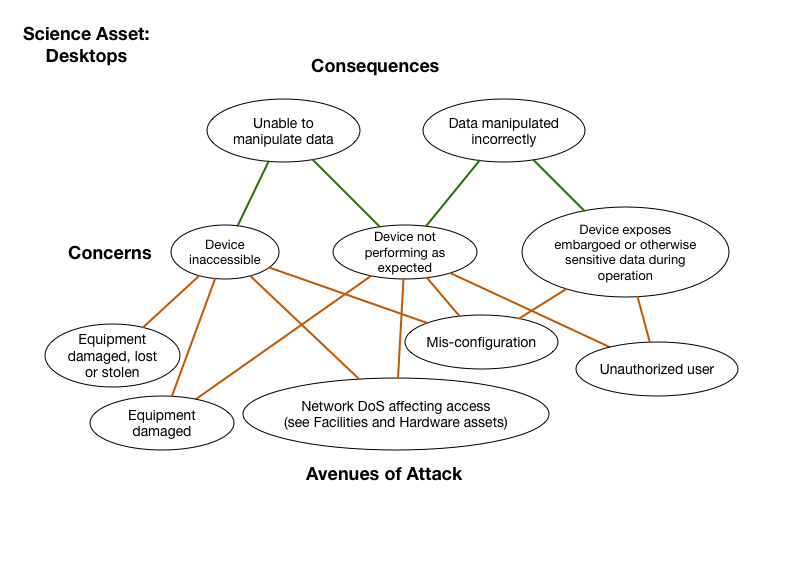
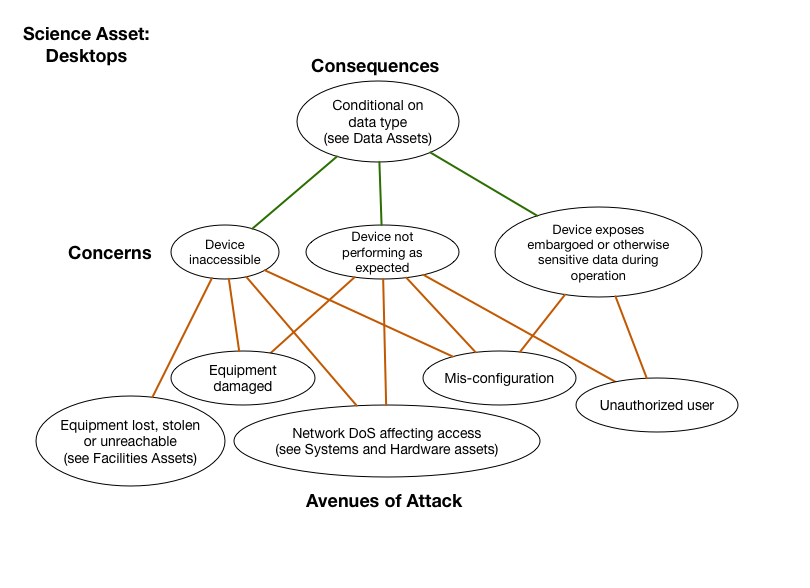
Updated a few more diagrams to show the dependency on Data Assets.  Added Sensors and Staff Institutional Systems (however, as I had trouble with the risk profile, I assume this should not be here).  Fixed one asset highlight to refer (more accurately) to the institutional systems assets (which agai

diff --git a/OSCRP.md b/OSCRP.md
@@ -112,7 +112,7 @@ A vulnerability in the wiki software used by a microelectronics research lab was
 
 
 A physics lab and a materials science lab were affected by intrusions into the computers used to control sensitive lab equipment. The intruders gained access via Windows Remote Desktop, which was used heavily by lab members to remotely access these instruments. The intruders used these computers to hide their true location while engaging in social engineering fraud on dating websites. As part of an effort to avoid discovery, intruders deleted all data, including scientific data files, from one of the instrument controller computers. Research operations were disrupted and delayed while the computers were examined, rebuilt and hardened against future intrusions.  
-**Asset:** Network-connected scientific control system (instruments)  
+**Asset:** Network-connected scientific control systems (instruments)  
 **Concern:** Data loss  
 **Consequences:** Lost science time and reduced reputation
 
@@ -126,7 +126,7 @@ A group of hackers gained access to a vulnerable scientific computing cluster at
 **Consequences:** Inability to manipulate science data
 
 A group of very fast-moving intruders gained access to systems in Astronomy departments at numerous universities using techniques similar to the above. A core group of computers that were compromised and running Trojaned SSH binaries were associated with a research project being run from a physically remote location with poor network connectivity, and at the time the intrusion was discovered, ALL personnel directly familiar with the configuration and management of these systems were at that location, which greatly hampered investigation and recovery, and extended the period of down time for these systems. Most of the systems involved were run by scientists, not system administrators, who understandably prioritized science over system management and documentation. System names were reused several times, and in some cases servers back at the university had names that indicated a connection with the project, when in fact there was no current relationship with the project. Downtime, widespread credential changes, and general confusion all impacted the research project.  
-**Assets:** Servers and networks  
+**Assets:** Staff computing & networking and networks  
 **Concerns:** Device inaccessible, devices exposing sensitive information and transport prevented  
 **Consequences:** Inability to manipulate science data and delays in collaboration
 
@@ -135,7 +135,7 @@ A group of very fast-moving intruders gained access to systems in Astronomy depa
 ### Targeted
 
 A politically controversial project (the building of a new large-scale telescope) was subjected to attack by "hacktivists" who generated large quantities of protest mail to the mailboxes of the officers of the project and the project's informational contact address, rendering these mailboxes unusable due to the volume of messages. Protesters also engaged in distributed denial-of-service attacks against the project's website, repeatedly knocking it offline. This made communication between the project and its supporters, the media, and citizenry who wished to learn more about the controversy extremely difficult.  
-**Assets:** Servers and networks  
+**Assets:** Servers (mail) and networks  
 **Concerns:** Devices inaccessible and transport prevented  
 **Consequences:** Inability to manipulate administration data and reduced reputation
 
@@ -281,7 +281,7 @@ In this section we list common Open Science Assets and provide a diagram for eac
 
 -   Standard lab equipment
 
--   Staff computing & networking: Desktop, laptop, smartphones and the infrastructure leveraged by staff to access assets
+-   [*Staff computing & networking*](assets/Institution-systems.html): Institutional systems used by staff to access assets, e.g., desktops, laptops, smartphones and the infrastructures they leverage
 
 <!-- <a name="#system-and-hardware-assets" / > -->
 
@@ -323,7 +323,7 @@ In this section we list common Open Science Assets and provide a diagram for eac
 
 ## Instruments
 
--   Network-connected sensors (e.g., neutrino collectors)
+-   [*Sensors*](assets/Sensors.html): Sensor instruments (e.g., network-connected neutrino collectors)
 
 -   [*Network-connected scientific control systems (e.g., microscopes, telescopes, light sources, particle accelerators)*](assets/Cyber-Physical%20Control%20System.html)
 

diff --git a/assets/Servers.md b/assets/Servers.md
@@ -6,11 +6,8 @@ permalink: assets/Servers.html
 
 # Servers
 
-*Asset Type:*  Project hardware
+*Asset Type:*  Hardware
 
-Systems within a project's cyberinfrastructure used to access, store,
-generate or manipulate data or other science assets in the typical
-server sense.  The server includes the physical hardware, software and
-middleware, as well as any configuration management associated with it.
+Systems within a project's cyberinfrastructure used to access, store, generate or manipulate data or other science assets in the typical server sense.  The server includes the physical hardware, software and middleware, as well as any configuration management associated with it.
 
 ![Server Hardware](../diagrams/Servers.png)

diff --git a/assets/Institution-systems.md b/assets/Institution-systems.md
@@ -1,0 +1,13 @@
+---
+layout: default
+title: Institutional Systems
+permalink: assets/Institution-systems.html
+---
+
+# Institutional Systmes
+
+*Asset Type:*  Facilities
+
+Systems outside a project's threat profile, but a critical compononet in the science process.  This includes staff workstations, laptops, networks, supercomputers, etc.
+
+![Institutional Systems](../diagrams/Institution-systems.png)

diff --git a/assets/Sensors.md b/assets/Sensors.md
@@ -1,0 +1,13 @@
+---
+layout: default
+title: Sensors
+permalink: assets/Sensors.html
+---
+
+# Sensors
+
+*Asset Type:*  Instrument
+
+Hardware or systems designed to collect raw data.  These can include standalone, as well as network-connected devicees.
+
+![Sensors](../diagrams/Sensors.png)
